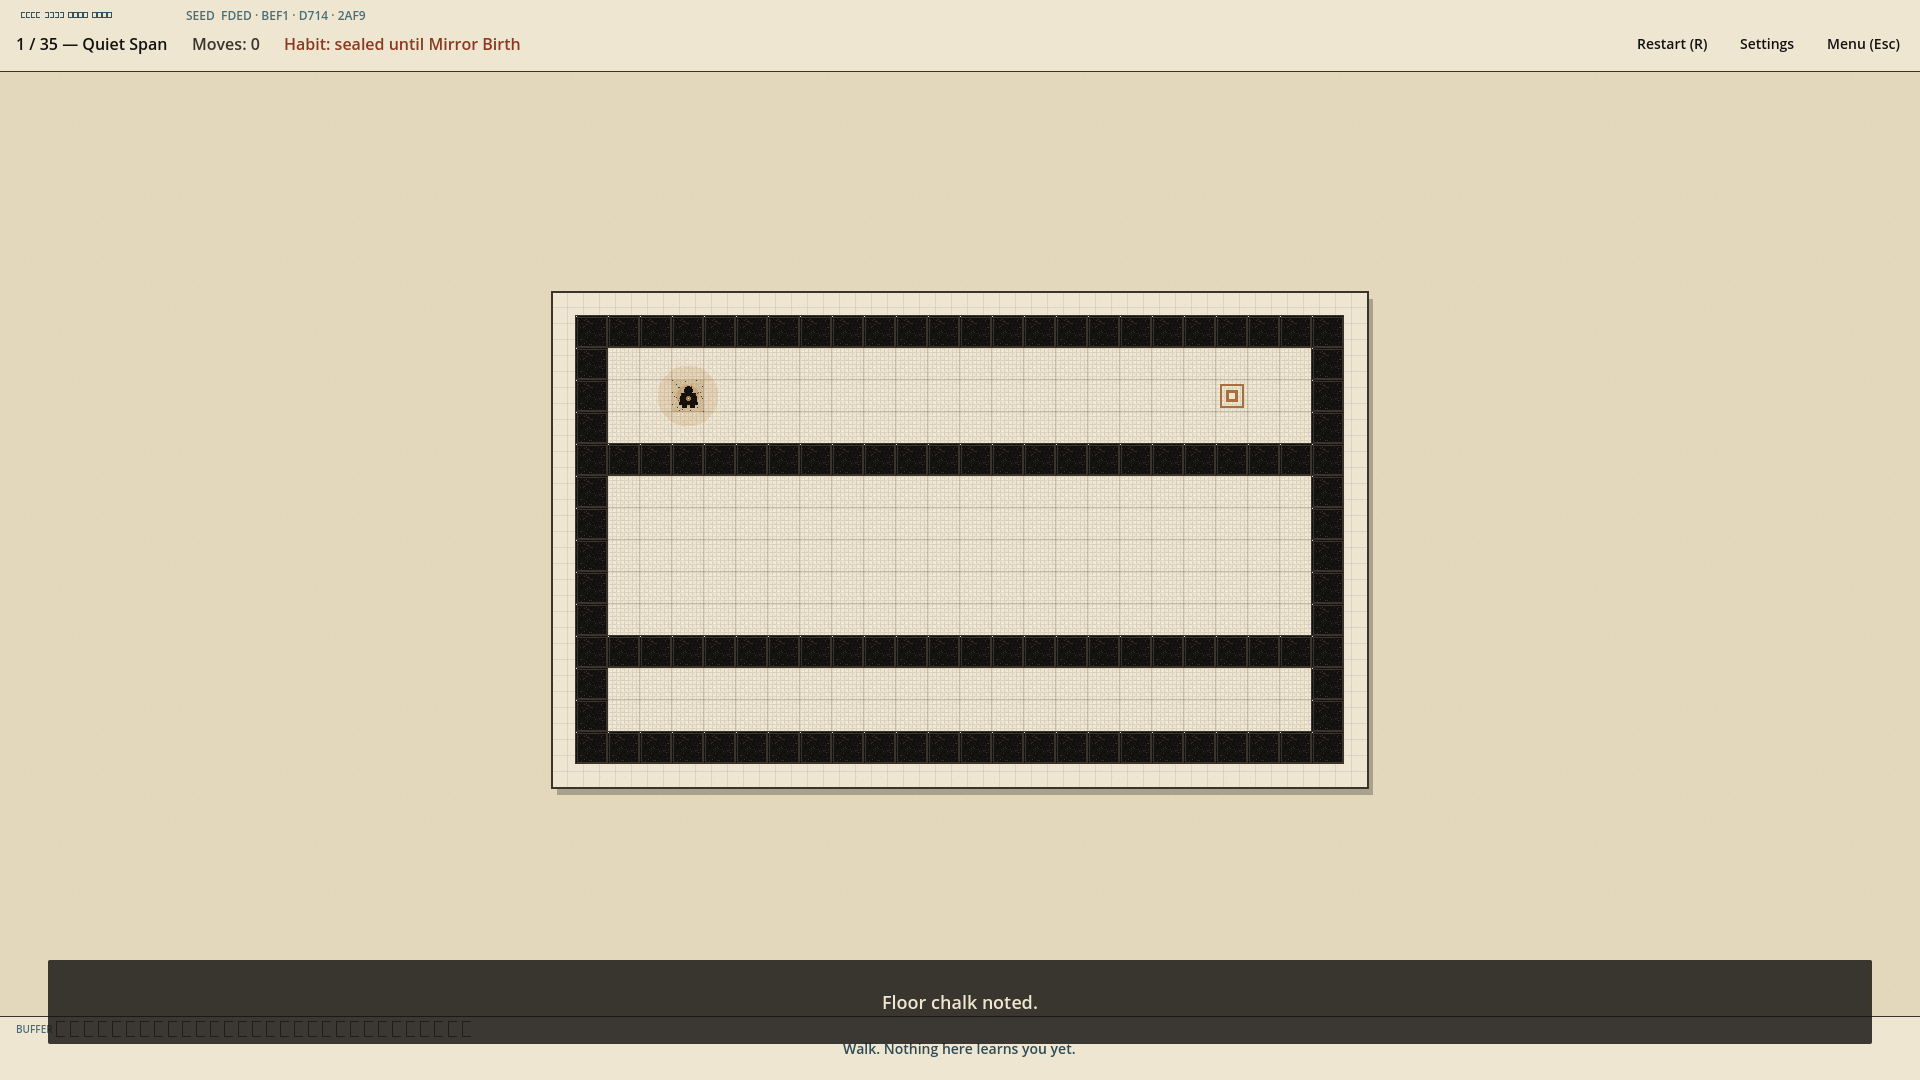
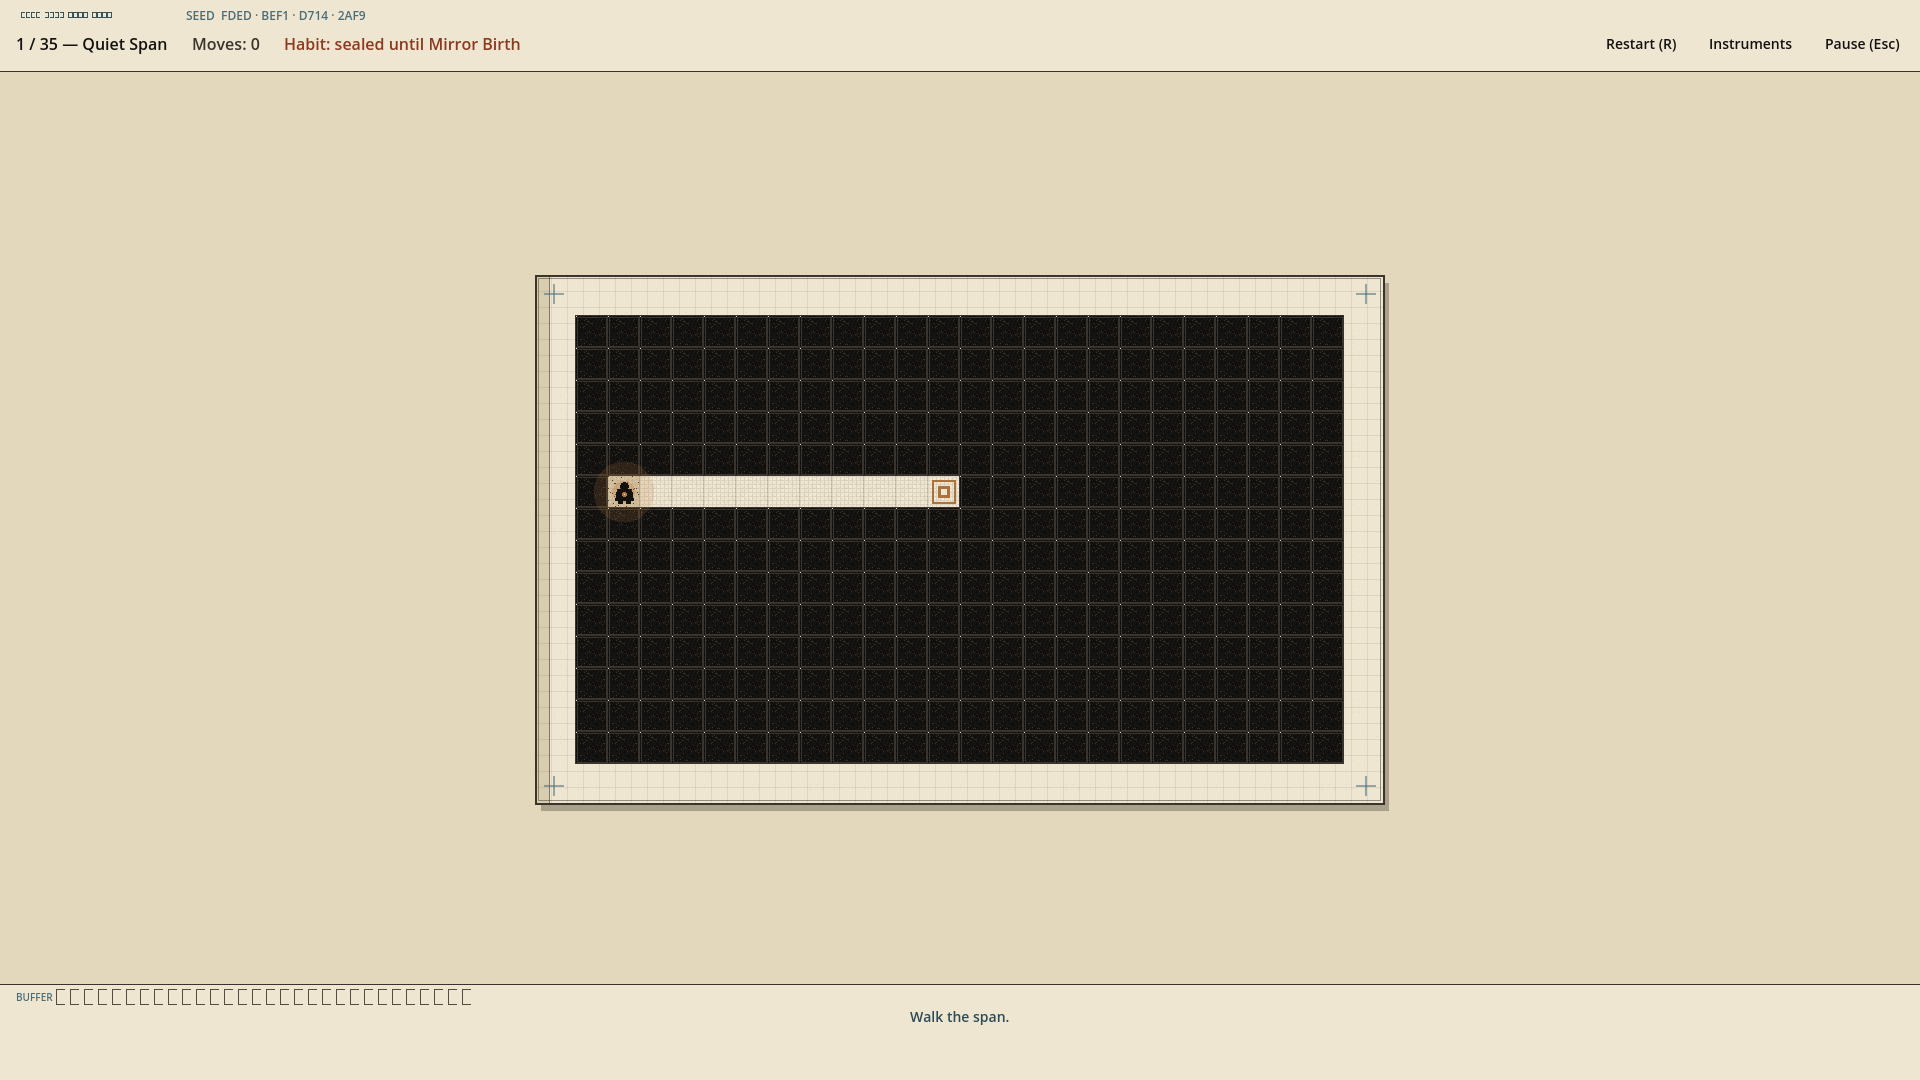
media(g1): refresh Steam 1920×1080 screenshot slate
Recapture Partner stills from execute-g1 (diegetic Field Ledger UI,
habit margins, clear/end beats) and update TOUR / store caption docs.

Changed region(s): [[0.2812, 0.2444, 0.75, 0.7639], [0.0, 0.8861, 1.0, 0.9778], [0.8438, 0.0306, 0.9688, 0.0611]]

diff --git a/docs/RELEASE/STEAM_STORE_FINAL.md b/docs/RELEASE/STEAM_STORE_FINAL.md
@@ -256,18 +256,20 @@ Upload checklist:
 
 Steam wants ≥5; we ship **eight** native **1920×1080** (16:9) candidates in Partner upload order. The older [`v2_complete`](../ECHO_LATTICE/screenshots/v2_complete/) tour (1152×672) stays as loop-proof reference only — do **not** upload it to Partner.
 
+**G1 recapture (2026-08-09):** stills regenerated from `cursor/execute-g1` @ `26ae974` so the slate shows diegetic Field Ledger margins, habit print, and clear/end habit beats. Provenance: [`screenshots/TOUR.md`](screenshots/TOUR.md).
+
 | # | Store job | File | Silent-legible claim |
 |---|---|---|---|
-| 1 | Hook / header still | [`01_hook_rewrite_slam.png`](screenshots/01_hook_rewrite_slam.png) | Origami rewrite — walls agreeing with the habit |
-| 2 | Brand / tone | [`02_brand_main_menu.png`](screenshots/02_brand_main_menu.png) | Field Ledger title card — paper, ink, rust |
-| 3 | Clean chamber read | [`03_chamber_start.png`](screenshots/03_chamber_start.png) | Ink walls, copper goal, habit unwritten |
-| 4 | Habit forming | [`04_walking_trail.png`](screenshots/04_walking_trail.png) | Chalk trail writing toward checkpoint |
-| 5 | Depth / pressure | [`05_mid_act_chamber.png`](screenshots/05_mid_act_chamber.png) | Later-act chamber, same materials under pressure |
-| 6 | Meta / stars | [`06_win_stars.png`](screenshots/06_win_stars.png) | 1–3★ clear, moves vs par |
-| 7 | Modes | [`07_daily_select.png`](screenshots/07_daily_select.png) | Daily Challenge on the ledger menu |
-| 8 | Run close | [`08_wing_clear.png`](screenshots/08_wing_clear.png) | End-of-run ledger / habit signature |
+| 1 | Hook / header still | [`01_hook_rewrite_slam.png`](screenshots/01_hook_rewrite_slam.png) | Looking Glass slam — trail folds into walls; habit sealed |
+| 2 | Brand / tone | [`02_brand_main_menu.png`](screenshots/02_brand_main_menu.png) | Field Ledger / Field Index — paper, ink, rust |
+| 3 | Clean chamber read | [`03_chamber_start.png`](screenshots/03_chamber_start.png) | Quiet Span — ink walls, copper goal, empty BUFFER |
+| 4 | Habit forming | [`04_walking_trail.png`](screenshots/04_walking_trail.png) | Mirror Birth chalk trail — “Floor chalk noted.” |
+| 5 | Depth / pressure | [`05_mid_act_chamber.png`](screenshots/05_mid_act_chamber.png) | Cement Trail under the same ledger framing |
+| 6 | Meta / stars | [`06_win_stars.png`](screenshots/06_win_stars.png) | Clear stamp — 1–3★, moves vs par, Hand line |
+| 7 | Modes | [`07_daily_select.png`](screenshots/07_daily_select.png) | Daily sheet focused on the Field Index |
+| 8 | Run close | [`08_wing_clear.png`](screenshots/08_wing_clear.png) | Ledger closed — habit handwriting / Museum next |
 
-**Rules:** no debug overlays, no Discord watermarks, no fake combat key art. Regenerate with `./game/echo_lattice/tools/capture_steam_store.sh` (writes a temporary 1920×1080 `override.cfg`, then removes it).
+**Rules:** no debug overlays, no Discord watermarks, no fake combat key art. Regenerate with `./game/echo_lattice/tools/capture_steam_store.sh` (writes a temporary 1920×1080 `override.cfg`, then removes it). Prefer a G1 tip so stills match the diegetic shell.
 
 ---
 

diff --git a/docs/RELEASE/screenshots/TOUR.md b/docs/RELEASE/screenshots/TOUR.md
@@ -1,51 +1,54 @@
 # Steam store slate — captions (1920×1080)
 
-Captured with `game/echo_lattice/tools/capture_steam_store.sh` (xvfb + `--screenshot` + temporary 1920×1080 `override.cfg`).
+**G1 recapture** from `cursor/execute-g1` @ `26ae974` (RC1 + merged `cursor/g1-*` siblings except parallel `g1-fonts-materials`, which conflicts with execute-g1’s Plex/`ledger_type` pack).  
+Tool: `game/echo_lattice/tools/capture_steam_store.sh` (xvfb + `--screenshot` + temporary 1920×1080 `override.cfg`).
+
+Diegetic Field Ledger framing, margin habit print, and clear/end habit beats land in these stills even before G1 merges to RC1 gameplay.
 
 ## 01 — Hook / rewrite slam
 
 ![Rewrite slam](01_hook_rewrite_slam.png)
 
-Origami rewrite mid-fold — walls agreeing with the habit. Header / first-slot still.
+Looking Glass mid-slam — trail folding into walls; habit still sealed until Mirror Birth. Header / first-slot still.
 
 ## 02 — Brand / main menu
 
 ![Main menu](02_brand_main_menu.png)
 
-Field Ledger title card: paper, ink, rust, **ECHO LATTICE** lockup.
+Field Ledger title card: paper, ink, rust, **ECHO LATTICE** lockup, Field Index (survey / Daily / Endless / Museum / Colophon).
 
 ## 03 — Chamber start
 
 ![Chamber start](03_chamber_start.png)
 
-Clean chamber read: ink walls, copper goal, habit unwritten.
+Quiet Span clean read: ink walls, copper goal, habit sealed, empty BUFFER strip.
 
 ## 04 — Walking trail
 
 ![Walking trail](04_walking_trail.png)
 
-Chalk habit trail writing toward a checkpoint — learning before the slam.
+Mirror Birth chalk trail writing toward a checkpoint — “Floor chalk noted.” before the slam.
 
 ## 05 — Mid-act pressure
 
 ![Mid-act chamber](05_mid_act_chamber.png)
 
-Later-act chamber under the same Field Ledger materials.
+Cement Trail under the same ledger margins; habit unwritten, paper plate framing.
 
 ## 06 — Win / stars
 
 ![Win stars](06_win_stars.png)
 
-1–3★ clear with moves vs par — elevated playable loop.
+Clear stamp: 1–3★, moves vs par, **Hand:** line — elevated playable loop without prototype tells.
 
 ## 07 — Daily / modes
 
 ![Daily select](07_daily_select.png)
 
-Daily Challenge on the ledger menu (shared UTC seed).
+Daily sheet focused on the Field Index (shared UTC seed).
 
 ## 08 — Wing clear
 
 ![Wing clear](08_wing_clear.png)
 
-End-of-run ledger / habit signature.
+Ledger closed / habit handwriting close — Museum of Selves next.

diff --git a/docs/RELEASE/screenshots/README.md b/docs/RELEASE/screenshots/README.md
@@ -5,12 +5,15 @@
 **Tool:** [`../../../game/echo_lattice/tools/capture_steam_store.sh`](../../../game/echo_lattice/tools/capture_steam_store.sh)  
 **Store order / captions:** [`../STEAM_STORE_FINAL.md`](../STEAM_STORE_FINAL.md) §8 · [`TOUR.md`](TOUR.md)
 
+**G1 slate (2026-08-09):** regenerated from `cursor/execute-g1` @ `26ae974` so Partner stills show diegetic UI, paper framing, and habit beats. See [`TOUR.md`](TOUR.md) provenance note.
+
 Lower-res loop-proof tour (1152×672) remains at [`../../ECHO_LATTICE/screenshots/v2_complete/`](../../ECHO_LATTICE/screenshots/v2_complete/). **Upload this folder to Steam Partner**, not the tour folder.
 
 ## Regenerate
 
 ```bash
 export PATH="$HOME/bin:$PATH"   # or GODOT=/path/to/Godot_v4.3
+# Prefer a G1 tip (execute-g1 or RC1 after G1 merge) so stills match diegetic shell.
 ./game/echo_lattice/tools/capture_steam_store.sh
 ```
 

diff --git a/docs/RELEASE/VIEW_MEDIA.md b/docs/RELEASE/VIEW_MEDIA.md
@@ -29,7 +29,7 @@ Presskit copy of the poster (same pixels):
 
 ## Steam screenshots (`docs/RELEASE/screenshots/`)
 
-1920×1080 Partner slate. Captions: [`TOUR.md`](screenshots/TOUR.md).
+1920×1080 Partner slate (**G1 recapture** from `execute-g1` @ `26ae974` — diegetic UI / habit beats). Captions: [`TOUR.md`](screenshots/TOUR.md).
 
 | # | File | Preview |
 |---|---|---|
